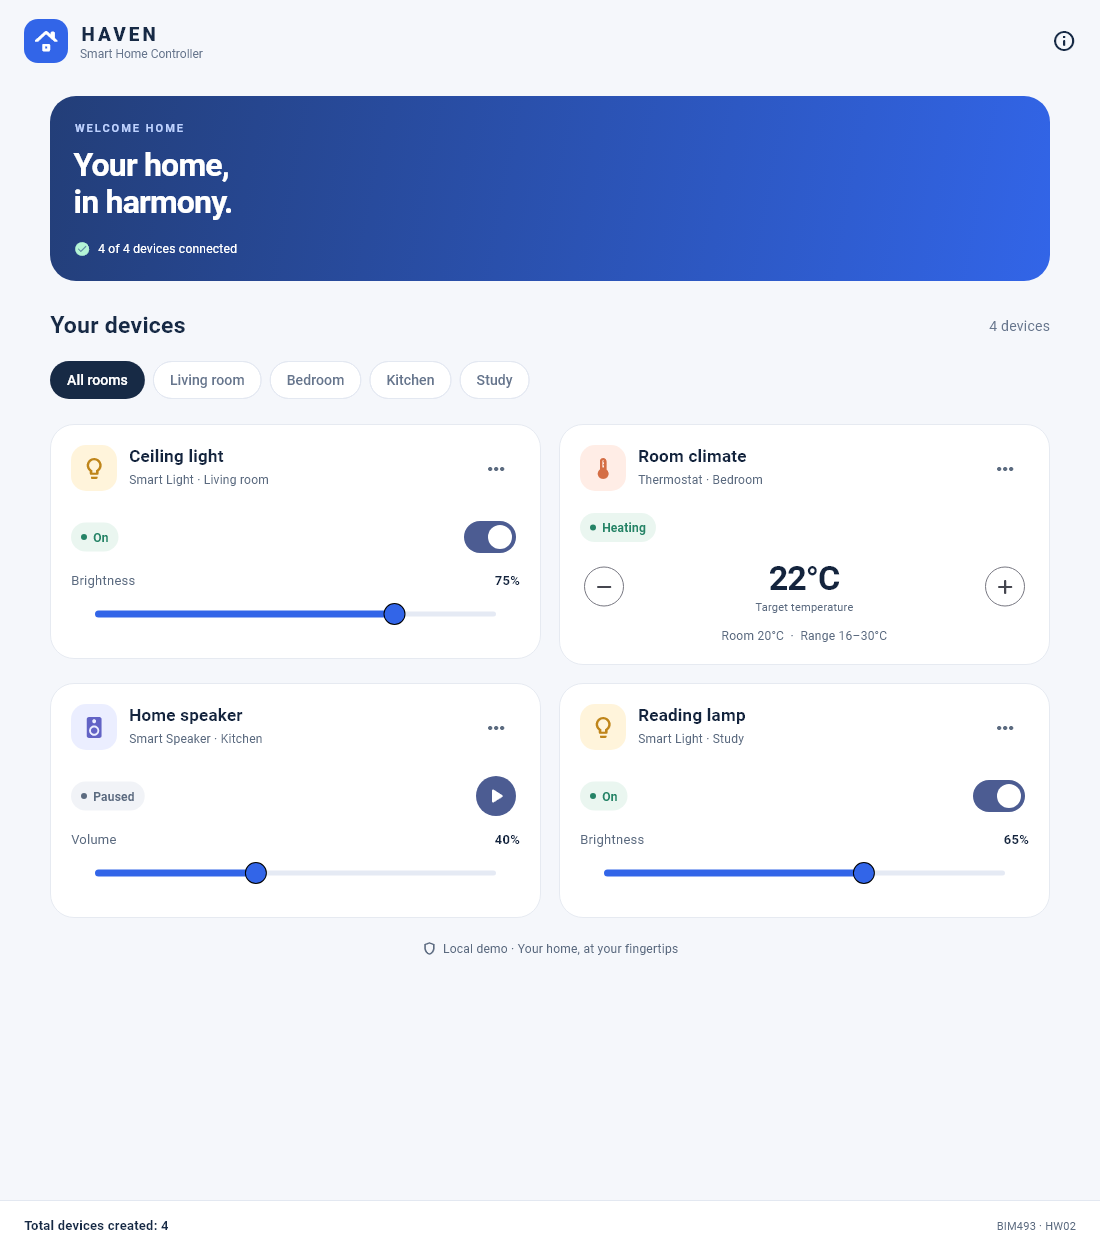
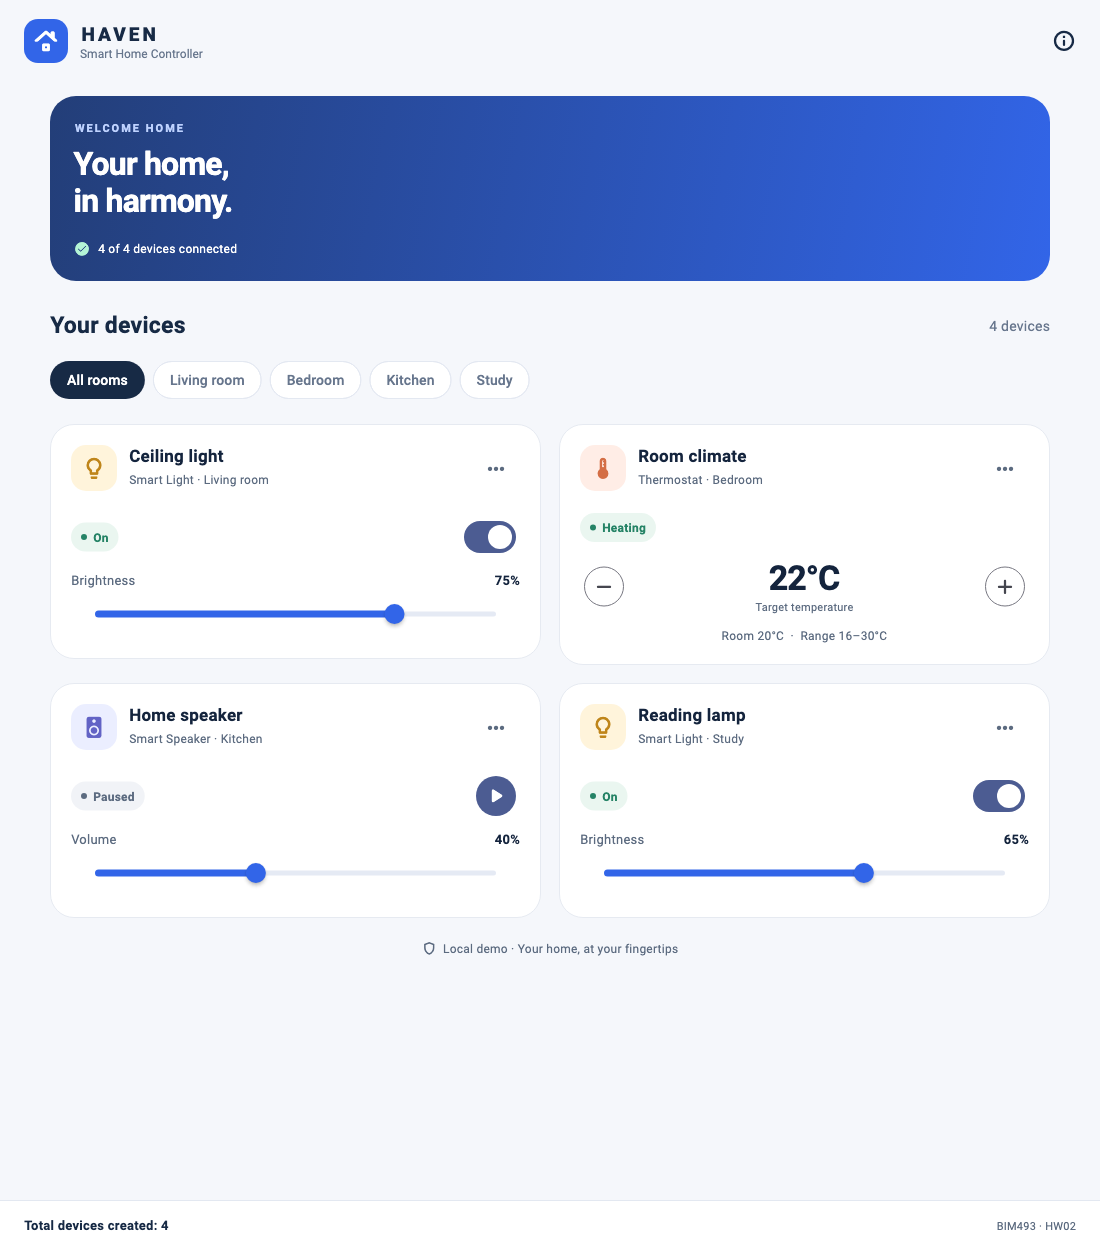
Add screenshots, license and expanded README
Nine app screenshots, an MIT license, requirement checklists and
submission notes in the README; verification notes updated.

diff --git a/README.md b/README.md
@@ -1,46 +1,93 @@
 # Haven · Smart Home Controller
 
-BIM493 Mobile Programming I — Assignment #2
+BIM493 - Mobile Programming I, Assignment 2, 2026-2027.
 
-- **Tarık Ata Kılıç** — **40312440132**
-- **Ata Turan** — **22652290356**
+An English-language Flutter application that simulates a smart home controller. Four device objects (two smart lights, a thermostat and a smart speaker) are modeled with Dart object-oriented features and controlled from one dashboard. No account, network service or physical device is needed.
 
-A Flutter smart-home simulation with four device objects: two lights, one thermostat, and one speaker. No account, API key, network service, or physical device is required. The interface is in English, matching the assignment.
+## Team
 
-## Run the project
+- **Tarık Ata Kılıç** - 40312440132
+- **Ata Turan** - 22652290356
 
-Use a recent stable Flutter SDK (the project was developed with Flutter 3.47; Dart 3.9 or newer is required). Open this directory (the one containing `pubspec.yaml`) in VS Code or Android Studio, then run:
+## Toolchain
+
+Developed with **Flutter 3.47 on the Stable channel** (3.47.7 on Windows 11 and 3.47.9 on macOS). The minimum SDK in `pubspec.yaml` is Dart 3.9 (Flutter 3.35); `flutter analyze`, `flutter test` and the web build also pass with Flutter 3.35.7.
+
+`flutter --version` output from the macOS test machine:
+
+```text
+Flutter 3.47.9 • channel stable • https://github.com/flutter/flutter.git
+Framework • revision c197ca5199 (3 days ago) • 2026-10-29 10:10:20 -0400
+Engine • hash 9e025265bef30b838c0c1b68cad19decf97048f2 (revision 89c39edfdf) (5 days ago) • 2026-10-27 19:51:20.000Z
+Tools • Dart 3.13.7 • DevTools 2.60.0
+```
+
+The SDK itself is not included in the source archive.
+
+## Setup and run
+
+Install Flutter and add its `bin` directory to PATH. For Android, install Android Studio with its Android SDK and start an emulator or connect a device with USB debugging enabled. Then run these commands from the project root (the folder containing `pubspec.yaml`):
 
 ```sh
+flutter --version
+flutter doctor
 flutter pub get
+flutter devices
+flutter run
+```
+
+To preview the same Flutter interface in Chrome:
+
+```sh
 flutter run -d chrome
 ```
 
-For Android, install/configure the Android SDK, start an emulator or connect a USB-debugging-enabled phone, and use:
+On macOS with Xcode, `flutter run -d <ios-simulator-id>` runs the app on an iOS simulator.
+
+### Validation and builds
 
 ```sh
-flutter devices
-flutter run -d <android-device-id>
+flutter analyze
+flutter test --reporter expanded
+flutter build web --release
 ```
 
-For iOS, open the project on macOS with Xcode and an iOS simulator or configured device:
+Serve the web build with an HTTP server, because `file://` is unsupported: `python3 -m http.server 8080 --directory build/web` (use `python` on Windows), then open `http://localhost:8080`.
 
-```sh
-flutter run -d <ios-device-id>
-```
+Android SDK tools were not installed on the test machines, so no APK build or Android device test is claimed; the assignment asks for the Flutter project source code, not an APK. The iOS simulator build was checked on macOS. Android, iOS and web platform projects are included. Exact results are in `docs/VERIFICATION.md`.
 
-The project includes Android, iOS, and web platform folders. Test and build results are recorded in `docs/VERIFICATION.md`.
+## Features
 
-## Try the controls
+- A dashboard with a welcome banner that shows how many devices are connected, a room filter (All rooms, Living room, Bedroom, Kitchen, Study) and one card per device.
+- **Smart Light** (Ceiling light, Reading lamp): on/off switch and brightness slider (0–100%). Brightness is kept while the light is off; the slider is disabled until it is turned on again.
+- **Thermostat** (Room climate): minus/plus buttons change the target between 16 and 30°C. The status compares the target with the simulated room temperature of 20°C: Heating, Cooling or At target.
+- **Smart Speaker** (Home speaker): play/pause button and volume slider (0–100%). Playback is simulated; no audio is streamed.
+- Each card's options menu disconnects or reconnects the device through the `Connectable` interface. An offline device shows **Offline**, its controls are disabled and the banner count updates. Disconnecting the speaker also pauses it.
+- Lights can **schedule a power toggle** through the `Schedulable` mixin. The card shows the scheduled date and time; the toggle runs once while the app is open, and an offline light waits until it is reconnected. **Cancel schedule** removes it.
+- The footer shows **Total devices created**, read from the static `SmartDevice.totalDevicesCreated` counter. Filtering and controls never create new devices, so it stays at 4.
+- The info button shows the course, the assignment and the team members.
 
-1. Toggle **Ceiling light** and change its brightness. The stored brightness is retained when the light is off; its slider is disabled until powered on.
-2. Adjust **Room climate** with minus/plus. The target stays between 16 and 30°C. Its status compares the target with the simulated room temperature of 20°C: Heating, Cooling, or At target.
-3. Play/pause **Home speaker** and change its volume. This simulates playback state; it does not stream audio.
-4. Use any card's options menu to disconnect/reconnect. Offline controls are disabled, and the summary updates. Disconnecting a speaker pauses playback.
-5. For a light, choose **Schedule power toggle**. Pick a future time today, or an earlier time for the next day. The card shows the scheduled date/time. The action executes once while the app is open; if offline, it waits for reconnection. **Cancel schedule** removes it.
-6. Filter by room. Device state and the total created count stay unchanged. The info button displays both group members.
+## Screenshots
 
-State is intentionally held in memory and resets on app restart. Scheduling is an in-app demonstration, not an operating-system background alarm.
+Captured directly from the actual Flutter widget renderer at a 430 x 932 logical-pixel viewport, exported at 2x. `dashboard.png` shows the two-column layout at 1100 x 1250.
+
+| Dashboard | Thermostat and speaker |
+| --- | --- |
+| <img src="docs/screenshots/01-dashboard.png" width="300" alt="Dashboard"> | <img src="docs/screenshots/02-thermostat-speaker.png" width="300" alt="Thermostat and speaker"> |
+
+### Controls, connection, scheduling and filtering
+
+| Light off | Changed controls | Options menu | Offline device |
+| --- | --- | --- | --- |
+| <img src="docs/screenshots/03-light-off.png" width="180" alt="Light off"> | <img src="docs/screenshots/04-controls.png" width="180" alt="Thermostat cooling and speaker playing"> | <img src="docs/screenshots/05-options-menu.png" width="180" alt="Options menu"> | <img src="docs/screenshots/06-offline.png" width="180" alt="Offline device"> |
+
+| Scheduled toggle | Room filter | Team info |
+| --- | --- | --- |
+| <img src="docs/screenshots/07-schedule.png" width="180" alt="Scheduled toggle"> | <img src="docs/screenshots/08-room-filter.png" width="180" alt="Room filter"> | <img src="docs/screenshots/09-about.png" width="180" alt="Team info"> |
+
+### Wide layout
+
+![Wide layout](docs/screenshots/dashboard.png)
 
 ## Assignment requirements
 
@@ -59,54 +106,60 @@ State is intentionally held in memory and resets on app restart. Scheduling is a
 
 Polymorphism: a `List<SmartDevice>` stores the different device objects, and each card calls `device.getStatus()` through the base type.
 
-### UI screen
+### Expected output (UI screen)
 
-| Element | Implementation |
-| --- | --- |
-| **Device List** | `lib/screens/home_screen.dart` shows one card per device: Smart Light (two cards), Thermostat, and Smart Speaker. |
-| **Device Information** | `lib/widgets/device_card.dart` shows the device name, its type and room, the relevant property (brightness %, target temperature °C, volume %), and the current status returned by `getStatus()`. |
-| **Interaction** | Smart Light: on/off switch and brightness slider. Thermostat: minus/plus temperature buttons (16–30°C). Smart Speaker: play/pause button and volume slider. |
-| **Bottom Text** | The footer shows **Total devices created: 4**, read directly from the static variable `SmartDevice.totalDevicesCreated`. The `SmartDevice` constructor increments it, so the value does not come from the list length. Filters, controls, and widget rebuilds never construct extra devices. |
+- [x] **Device List:** one card per device: Smart Light (two cards), Thermostat and Smart Speaker ([screenshot](docs/screenshots/dashboard.png)).
+- [x] **Device Information:** each card shows the device name, its type and room, the relevant property (brightness %, target temperature °C, volume %) and the current status returned by `getStatus()` ([screenshot](docs/screenshots/02-thermostat-speaker.png)).
+- [x] **Interaction:** Smart Light has an on/off switch and a brightness slider, Thermostat has minus/plus temperature buttons, and Smart Speaker has a play/pause button and a volume slider ([screenshot](docs/screenshots/04-controls.png)).
+- [x] **Bottom Text:** the footer shows **Total devices created: 4**, read directly from the static variable `SmartDevice.totalDevicesCreated`. The `SmartDevice` constructor increments it, so the value does not come from the list length, and it stays at 4 after filtering ([screenshot](docs/screenshots/08-room-filter.png)).
 
-## Check and build
+## Verification checklist
 
-```sh
-flutter analyze
-flutter test
-flutter build web --release
-```
+The 16 model tests and 7 widget tests cover:
 
-Unit tests cover constructor counting, polymorphic behavior, connection guards, value bounds, and scheduled actions. Widget tests cover the rendered controls and layout. A release web build can be served over HTTP; opening `build/web/index.html` directly as a file is not supported.
+- Default and named constructors each increment the static counter exactly once; reading state and using controls never change it.
+- Every device class implements `Connectable`, and `getStatus()` returns the subclass-specific status (On/Off, Heating/Cooling/At target, Playing/Paused, Offline).
+- Light power and brightness bounds, thermostat 16–30°C bounds and statuses, speaker play/pause and volume bounds.
+- Offline devices reject changes, disconnecting pauses the speaker, and reconnecting restores control.
+- `Schedulable`: the action runs once when due, waits while the device is offline, and can be cancelled or replaced.
+- All four cards with their initial values, the switch, sliders and buttons, disconnect/reconnect and the banner count, room filtering with the same objects and footer count, scheduling through the real time picker, the team info dialog, and a 320 x 740 viewport at 150% text scale without overflow.
 
-```sh
-python3 -m http.server 8080 --directory build/web
-```
+See `docs/VERIFICATION.md` for exact execution results.
 
-Then open `http://localhost:8080` in a browser. On Windows, use `python` instead of `python3`.
+## Source organization
 
-## Source layout
+- `lib/main.dart`: app entry point and theme.
+- `lib/models/smart_device.dart`: abstract base class, static counter and abstract `getStatus()`.
+- `lib/models/smart_light.dart`, `thermostat.dart`, `smart_speaker.dart`: device subclasses with default and named constructors.
+- `lib/models/connectable.dart`: `Connectable` interface.
+- `lib/models/schedulable.dart`: `Schedulable` mixin.
+- `lib/models/devices.dart`: exports all model files.
+- `lib/data/demo_devices.dart`: creates the four device objects.
+- `lib/screens/home_screen.dart`: dashboard, room filter, schedule timer and static footer.
+- `lib/widgets/device_card.dart`: device card with model-backed controls.
+- `test/`: model and widget tests.
+- `docs/`: verification notes and screenshots.
+- `tools/package_submission.py`: creates the submission ZIP.
 
-```text
-lib/
-  main.dart                    App and theme
-  data/demo_devices.dart       Default + named constructor instances
-  models/                      Dart OOP implementation
-  screens/home_screen.dart     Dashboard, filtering, scheduler, static footer
-  widgets/device_card.dart     Model-backed device controls
-android/                       Android platform project
-ios/                           iOS platform project
-web/                           Web entry and launcher assets
-test/                          Model and widget tests
-docs/                          Verification notes and screenshots
-tools/package_submission.py    Reproducible minimal source ZIP
-```
-
-## Packaging
-
-`python3 tools/package_submission.py` creates `output/HW2_Tarik_Ata_Kilic_40312440132_Ata_Turan_22652290356.zip`. The ZIP contains the full source project and documentation, without SDKs, build caches, IDE state, or machine-specific paths.
+State updates use simple `setState`, with no state-management library. The home screen owns the device objects, and the cards change those same objects.
 
 ## References
 
-- BIM493 Mobile Programming I, Assignment #2 brief (`HW2.pdf`).
-- [Flutter documentation](https://docs.flutter.dev/) (project/platform tooling).
-- [Dart mixins](https://dart.dev/language/mixins) and [class modifiers](https://dart.dev/language/class-modifiers-for-apis) (language features).
+- [Flutter documentation](https://docs.flutter.dev/)
+- Dart [classes](https://dart.dev/language/classes), [constructors](https://dart.dev/language/constructors), [mixins](https://dart.dev/language/mixins) and [class modifiers](https://dart.dev/language/class-modifiers-for-apis)
+
+## Scope and limitations
+
+State is held in memory and resets when the app restarts. Scheduling runs only while the app is open; it is not an operating-system alarm. There are no real smart-home devices, accounts or network services. Android emulator/device behavior was not tested.
+
+## License
+
+MIT, see `LICENSE`. Material Icons come from the Flutter SDK; see the [Flutter license](https://github.com/flutter/flutter/blob/master/LICENSE) and the [Material Icons license](https://github.com/google/material-design-icons/blob/master/LICENSE).
+
+## Submission
+
+Public repository: https://github.com/krainox02/40312440132_22652290356_Smart_Home_Controller_HW2
+
+The source ZIP, `HW2_Tarik_Ata_Kilic_40312440132_Ata_Turan_22652290356.zip`, carries both student IDs in its name and contains the same files as the repository: platform folders, source, `pubspec.yaml`, `pubspec.lock`, tests, screenshots and documentation. It excludes `build/`, `.dart_tool/`, IDE caches and local SDK paths. Recreate it in `output/` with `python3 tools/package_submission.py`.
+
+Submit the repository and/or archive link through ESTUOYS by **November 10, 2026, 23:59 (UTC+3)**.

diff --git a/docs/VERIFICATION.md b/docs/VERIFICATION.md
@@ -27,9 +27,10 @@ Widget coverage includes all four device cards and their initial numeric propert
 ## Rendered application
 
 - The release web build was served over local HTTP and opened in a Chromium-based browser. The dashboard loaded correctly, including the static footer count of 4.
+- `screenshots/01-dashboard.png` to `09-about.png`: actual Flutter widget-renderer captures at 430 x 932 logical pixels, exported at 2x, taken after real taps on the app's controls (light off, thermostat and speaker controls, options menu, offline device, scheduled toggle, room filter, team info).
 - `screenshots/dashboard.png`: actual Flutter rendering at 1100 x 1250 with all four cards visible.
 - `screenshots/phone.png`: actual Flutter rendering at 390 x 844 with vertical scrolling and a persistent footer.
-- Both screenshots use real Roboto and Material Icons fonts and were visually inspected.
+- All screenshots use real Roboto and Material Icons fonts and were visually inspected.
 
 ## Platform scope
 
